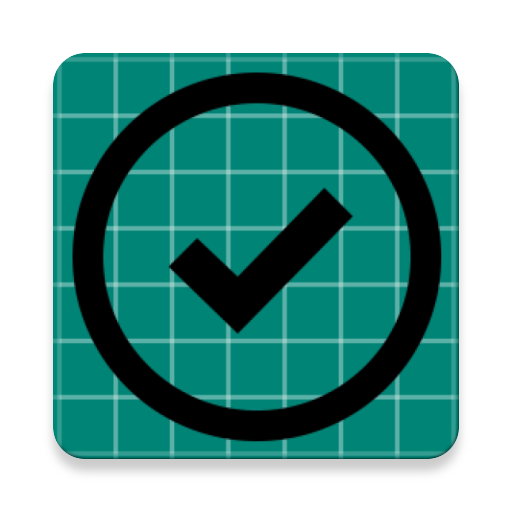
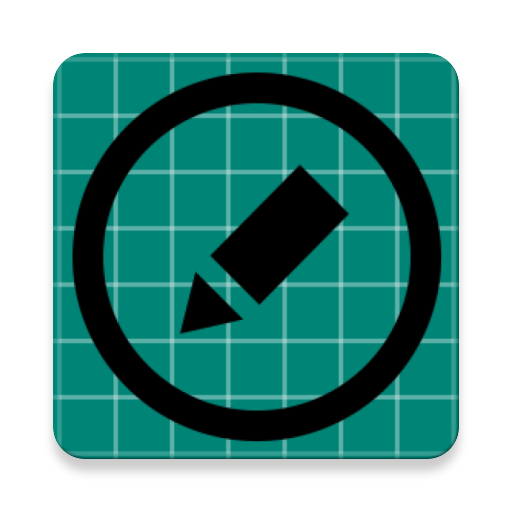
lab2 optional

Changed region(s): [[0.3125, 0.3125, 0.6875, 0.6562]]

diff --git a/app/src/main/java/com/example/flashhh/MainActivity.java b/app/src/main/java/com/example/flashhh/MainActivity.java
@@ -8,6 +8,8 @@ import android.os.Bundle;
 import android.view.View;
 import android.widget.TextView;
 
+import com.google.android.material.snackbar.Snackbar;
+
 public class MainActivity extends AppCompatActivity {
     private boolean isShowingAnswers;
 
@@ -20,15 +22,17 @@ public class MainActivity extends AppCompatActivity {
         isShowingAnswers = false;
 
         findViewById(R.id.flashcard_answer).setVisibility(View.INVISIBLE);
-        findViewById(R.id.flashcard_answer_correct).setVisibility(View.INVISIBLE);
-        findViewById(R.id.flashcard_answer_wrong1).setVisibility(View.INVISIBLE);
-        findViewById(R.id.flashcard_answer_wrong2).setVisibility(View.INVISIBLE);
+        findViewById(R.id.toggle_choices_visibility).setVisibility(View.INVISIBLE);
+        makeMultipleChoiceInvisible();
 
         findViewById(R.id.flashcard_question).setOnClickListener(new View.OnClickListener() {
             @Override
             public void onClick(View v) {
-                findViewById(R.id.flashcard_answer).setVisibility(View.VISIBLE);
-                findViewById(R.id.flashcard_question).setVisibility(View.INVISIBLE);
+                if (!isShowingAnswers)
+                { // mc needs to be off in order to use flashcard flip-mode
+                    findViewById(R.id.flashcard_answer).setVisibility(View.VISIBLE);
+                    findViewById(R.id.flashcard_question).setVisibility(View.INVISIBLE);
+                }
             }
         });
 
@@ -82,14 +86,7 @@ public class MainActivity extends AppCompatActivity {
         findViewById(R.id.background_flash).setOnClickListener(new View.OnClickListener() {
             @Override
             public void onClick(View v) {
-                findViewById(R.id.flashcard_answer_correct).setBackgroundColor(
-                        getResources().getColor(R.color.colorAnswerChoice));
-
-                findViewById(R.id.flashcard_answer_wrong1).setBackgroundColor(
-                        getResources().getColor(R.color.colorAnswerChoice));
-
-                findViewById(R.id.flashcard_answer_wrong2).setBackgroundColor(
-                        getResources().getColor(R.color.colorAnswerChoice));
+                resetMultipleChoiceColor();
             }
         });
 
@@ -97,17 +94,10 @@ public class MainActivity extends AppCompatActivity {
         findViewById(R.id.toggle_choices_visibility).setOnClickListener(new View.OnClickListener() {
             @Override
             public void onClick(View v) {
-                if (isShowingAnswers)
-                {
-                    findViewById(R.id.flashcard_answer_correct).setVisibility(View.INVISIBLE);
-                    findViewById(R.id.flashcard_answer_wrong1).setVisibility(View.INVISIBLE);
-                    findViewById(R.id.flashcard_answer_wrong2).setVisibility(View.INVISIBLE);
-                }
-                else
-                {
-                    findViewById(R.id.flashcard_answer_correct).setVisibility(View.VISIBLE);
-                    findViewById(R.id.flashcard_answer_wrong1).setVisibility(View.VISIBLE);
-                    findViewById(R.id.flashcard_answer_wrong2).setVisibility(View.VISIBLE);
+                if (isShowingAnswers) {
+                    makeMultipleChoiceInvisible();
+                } else {
+                    makeMultipleChoiceVisible();
                 }
                 isShowingAnswers = !isShowingAnswers;
             }
@@ -115,7 +105,7 @@ public class MainActivity extends AppCompatActivity {
 
 
         // *** CREATING NEW ACTIVITY ***
-        findViewById(R.id.add_card).setOnClickListener(new View.OnClickListener() {
+        findViewById(R.id.add_card_icon).setOnClickListener(new View.OnClickListener() {
             @Override
             public void onClick(View v) {
                 Intent intent = new Intent(MainActivity.this, AddCardActivity.class);
@@ -124,7 +114,26 @@ public class MainActivity extends AppCompatActivity {
         });
 
 
+        findViewById(R.id.edit_card_icon).setOnClickListener(new View.OnClickListener() {
+            @Override
+            public void onClick(View v) {
+                Intent intent = new Intent(MainActivity.this, AddCardActivity.class);
 
+                TextView q = findViewById(R.id.flashcard_question);
+                intent.putExtra("question", q.getText());
+
+                TextView a = findViewById(R.id.flashcard_answer);
+                intent.putExtra("answer", a.getText());
+
+                TextView w1 = findViewById(R.id.flashcard_answer_wrong1);
+                intent.putExtra("wrongAnswer1", w1.getText());
+
+                TextView w2 = findViewById(R.id.flashcard_answer_wrong2);
+                intent.putExtra("wrongAnswer2", w2.getText());
+
+                MainActivity.this.startActivityForResult(intent, 100);
+            }
+        });
     }
 
     @Override
@@ -132,6 +141,8 @@ public class MainActivity extends AppCompatActivity {
         if (requestCode == 100 && data != null && resultCode == RESULT_OK) { // this 100 needs to match the 100 we used when we called startActivityForResult!
             String question = data.getExtras().getString("question"); // 'string1' needs to match the key we used when we put the string in the Intent
             String answer = data.getExtras().getString("answer");
+            String wrongAnswer1 = data.getExtras().getString("wrongAnswer1");
+            String wrongAnswer2 = data.getExtras().getString("wrongAnswer2");
 
             TextView q = findViewById(R.id.flashcard_question);
             q.setText(question);
@@ -139,12 +150,58 @@ public class MainActivity extends AppCompatActivity {
             TextView a = findViewById(R.id.flashcard_answer);
             a.setText(answer);
 
-            if (isShowingAnswers)
+            TextView mcA = findViewById(R.id.flashcard_answer_correct);
+            TextView w1 = findViewById(R.id.flashcard_answer_wrong1);
+            TextView w2 = findViewById(R.id.flashcard_answer_wrong2);
+
+            mcA.setText(answer);
+            w1.setText(wrongAnswer1);
+            w2.setText(wrongAnswer2);
+
+            if (!wrongAnswer1.equals("") && !wrongAnswer2.equals("")) // MC options
             {
-                findViewById(R.id.toggle_choices_visibility).performClick(); // make 'em invisible
-                findViewById(R.id.background_flash).performClick(); // reset coloring
+                makeMultipleChoiceVisible();
+                resetMultipleChoiceColor();
+                isShowingAnswers = true;
             }
-            findViewById(R.id.toggle_choices_visibility).setVisibility(View.INVISIBLE);
+            else  // Flash Card Flip Option
+            {
+                if (isShowingAnswers) // ** MAKE MC OPTIONS INVISIBLE
+                {
+                    makeMultipleChoiceInvisible();
+                    resetMultipleChoiceColor();
+                    isShowingAnswers = !isShowingAnswers;
+                }
+            }
+
+            Snackbar.make(findViewById(R.id.flashcard_question),
+                    "Flashcard successfully created", Snackbar.LENGTH_SHORT).show();
         }
+    }
+
+    private void makeMultipleChoiceInvisible()
+    {
+        findViewById(R.id.flashcard_answer_correct).setVisibility(View.INVISIBLE);
+        findViewById(R.id.flashcard_answer_wrong1).setVisibility(View.INVISIBLE);
+        findViewById(R.id.flashcard_answer_wrong2).setVisibility(View.INVISIBLE);
+    }
+
+    private void makeMultipleChoiceVisible()
+    {
+        findViewById(R.id.flashcard_answer_correct).setVisibility(View.VISIBLE);
+        findViewById(R.id.flashcard_answer_wrong1).setVisibility(View.VISIBLE);
+        findViewById(R.id.flashcard_answer_wrong2).setVisibility(View.VISIBLE);
+    }
+
+    private void resetMultipleChoiceColor()
+    {
+        findViewById(R.id.flashcard_answer_correct).setBackgroundColor(
+                getResources().getColor(R.color.colorAnswerChoice));
+
+        findViewById(R.id.flashcard_answer_wrong1).setBackgroundColor(
+                getResources().getColor(R.color.colorAnswerChoice));
+
+        findViewById(R.id.flashcard_answer_wrong2).setBackgroundColor(
+                getResources().getColor(R.color.colorAnswerChoice));
     }
 }

diff --git a/app/src/main/java/com/example/flashhh/AddCardActivity.java b/app/src/main/java/com/example/flashhh/AddCardActivity.java
@@ -13,11 +13,35 @@ public class AddCardActivity extends AppCompatActivity {
 
     String question;
     String answer;
+    String w1;
+    String w2;
 
     @Override
     protected void onCreate(Bundle savedInstanceState) {
         super.onCreate(savedInstanceState);
         setContentView(R.layout.activity_add_card);
+
+        // *** INITIALIZE ***
+        if (getIntent() != null) // if edit is called
+        {
+            question = getIntent().getStringExtra("question");
+            answer = getIntent().getStringExtra("answer");
+            w1 = getIntent().getStringExtra("wrongAnswer1");
+            w2 = getIntent().getStringExtra("wrongAnswer2");
+
+            EditText insertQuestion = findViewById(R.id.insert_question);
+            insertQuestion.setText(question);
+
+            EditText answerToQuestion = findViewById(R.id.insert_answerToQuestion);
+            answerToQuestion.setText(answer);
+
+            EditText wrongAnswer1 = findViewById(R.id.insert_wrongAnswer1);
+            wrongAnswer1.setText(w1);
+
+            EditText wrongAnswer2 = findViewById(R.id.insert_wrongAnswer2);
+            wrongAnswer2.setText(w2);
+        }
+
 
         // *** EXIT ACTIVITY ***
         findViewById(R.id.cancel_add_card).setOnClickListener(new View.OnClickListener() {
@@ -38,6 +62,13 @@ public class AddCardActivity extends AppCompatActivity {
                 EditText answerToQuestion = findViewById(R.id.insert_answerToQuestion);
                 answer = answerToQuestion.getText().toString();
 
+                EditText wrongAnswer1 = findViewById(R.id.insert_wrongAnswer1);
+                w1 = wrongAnswer1.getText().toString();
+
+                EditText wrongAnswer2 = findViewById(R.id.insert_wrongAnswer2);
+                w2 = wrongAnswer2.getText().toString();
+
+
                 if (question.equals("") || answer.equals(""))
                 {
                     Toast.makeText(getApplicationContext(),
@@ -48,6 +79,8 @@ public class AddCardActivity extends AppCompatActivity {
                     Intent data = new Intent();
                     data.putExtra("question", question);
                     data.putExtra("answer", answer);
+                    data.putExtra("wrongAnswer1", w1);
+                    data.putExtra("wrongAnswer2", w2);
                     setResult(RESULT_OK, data);
                     finish();
                 }

diff --git a/README.md b/README.md
@@ -3,11 +3,11 @@
 ## Lab 2
 
 ### App Description
-Gives user the option to add their own question and answer. Provides feedback if question and answer fields aren't fully answered.
+Gives user the option to add their own question and answer. Provides feedback if question and answer fields aren't fully answered, and when flashcard is successfully created. User can edit their flashcard if they made a mistake. Additional inputs for multiple-choice style flashcard; automatically switches between flip-style and multiple-choice style depending on the number of inputs given. 
 
 ### App Walk-though
 
-<img src="http://g.recordit.co/WvDKWA96ri.gif" width=200><br>
+<img src="http://g.recordit.co/QfOqWBsKkJ.gif" width=200><br>
 
 
 ## Required
@@ -18,11 +18,11 @@ Gives user the option to add their own question and answer. Provides feedback if
 - [x] Push your progress to GitHub!
 
 ## Optional
-- [ ] User can edit a card
+- [x] User can edit a card
 - [x] An error message is shown if the user doesn't enter both a Question and an Answer
-- [ ] A notification is shown if the card was created successfully
-- [ ] User can also enter multiple choice answers when creating a card
-- [ ] App is further styled and customized!
+- [x] A notification is shown if the card was created successfully
+- [x] User can also enter multiple choice answers when creating a card
+- [x] App is further styled and customized!
 
 
 
